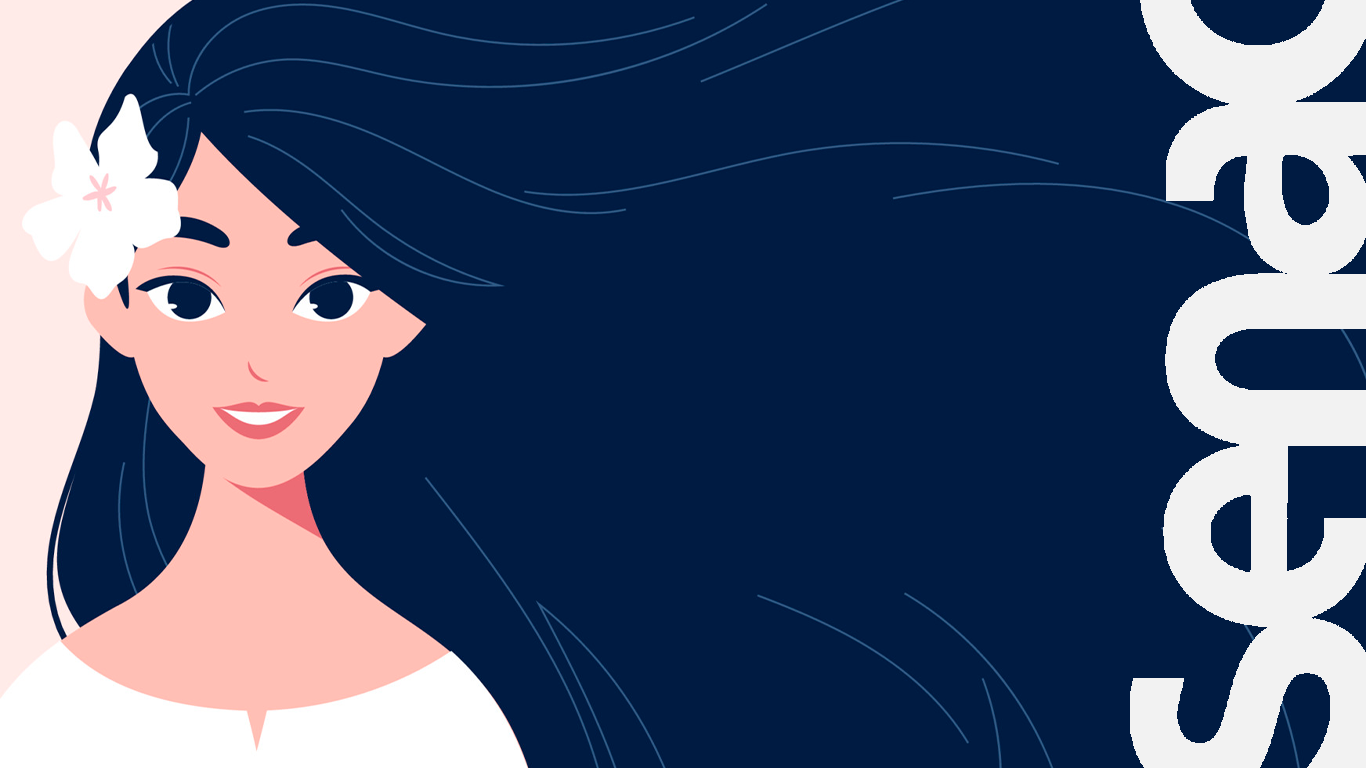
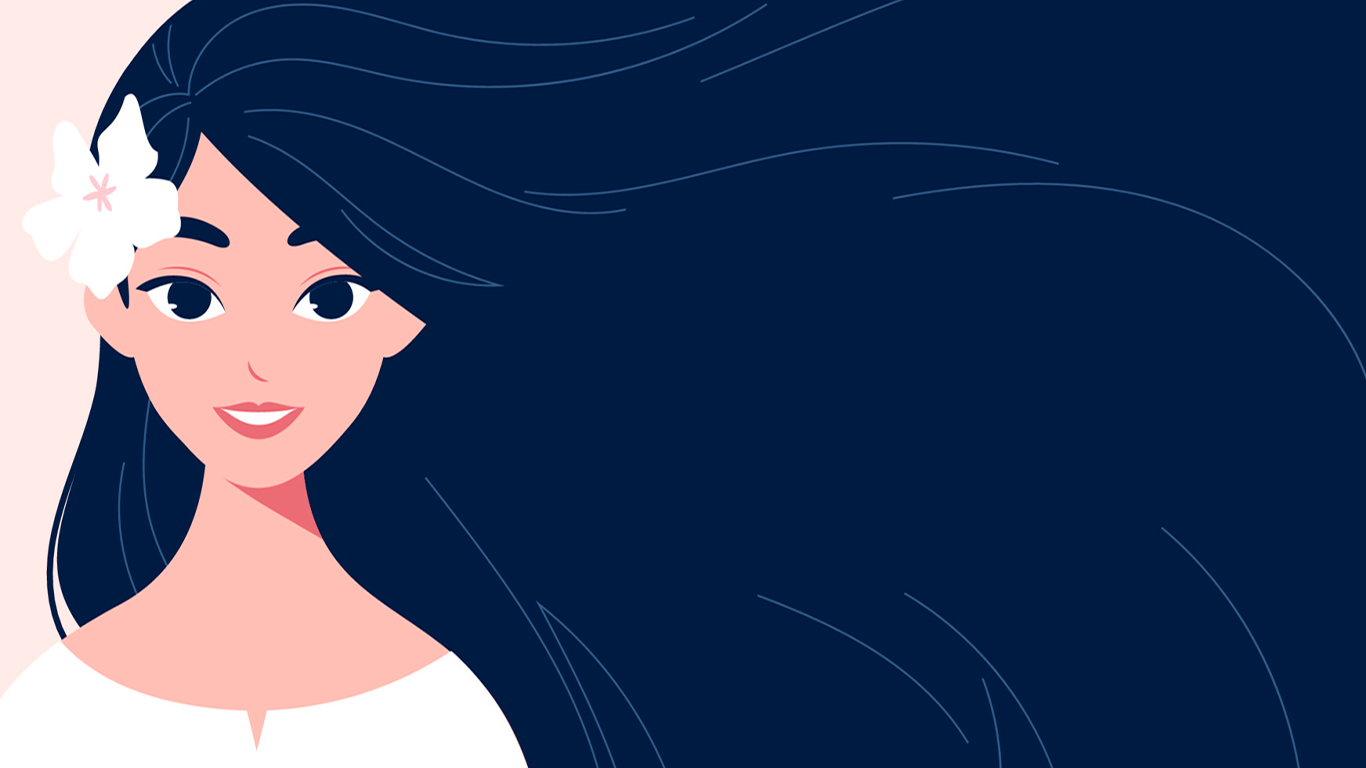
Feat: Header da página

Changed region(s): [[0.8302, 0.0, 1.0, 1.0]]

diff --git a/Aula-02/index.html b/Aula-02/index.html
@@ -4,9 +4,37 @@
     <meta charset="UTF-8">
     <meta http-equiv="X-UA-Compatible" content="IE=edge">
     <meta name="viewport" content="width=device-width, initial-scale=1.0">
-    <title>LandPage | Senac Tatuapé</title>
+    <link rel="stylesheet" href="css/styles.css">
+    <style>
+        @import url('https://fonts.googleapis.com/css2?family=Plus+Jakarta+Sans:wght@200;300&family=Source+Code+Pro:wght@500&family=Ubuntu:wght@500&display=swap');
+      </style>
+    <title>Landpage | Senac Tatuapé</title>
 </head>
 <body>
+<header>
+    <div class="left_panel">
+        <h3>Senac</h3>
+        <h2>Tatuapé Cel.Luís Americano</h2>
+        <div class="icons">
+            <a href="https://www.facebook.com/senactatuape/?locale=pt_BR"><svg xmlns="http://www.w3.org/2000/svg" width="24" height="24" fill="currentColor" class="bi bi-facebook" viewBox="0 0 16 16">
+                <path d="M16 8.049c0-4.446-3.582-8.05-8-8.05C3.58 0-.002 3.603-.002 8.05c0 4.017 2.926 7.347 6.75 7.951v-5.625h-2.03V8.05H6.75V6.275c0-2.017 1.195-3.131 3.022-3.131.876 0 1.791.157 1.791.157v1.98h-1.009c-.993 0-1.303.621-1.303 1.258v1.51h2.218l-.354 2.326H9.25V16c3.824-.604 6.75-3.934 6.75-7.951z"/>
+            </svg></a>
+            <a href="https://www.instagram.com/senac.tatuape/"><svg xmlns="http://www.w3.org/2000/svg" width="24" height="24" fill="currentColor" class="bi bi-instagram" viewBox="0 0 16 16">
+                <path d="M8 0C5.829 0 5.556.01 4.703.048 3.85.088 3.269.222 2.76.42a3.917 3.917 0 0 0-1.417.923A3.927 3.927 0 0 0 .42 2.76C.222 3.268.087 3.85.048 4.7.01 5.555 0 5.827 0 8.001c0 2.172.01 2.444.048 3.297.04.852.174 1.433.372 1.942.205.526.478.972.923 1.417.444.445.89.719 1.416.923.51.198 1.09.333 1.942.372C5.555 15.99 5.827 16 8 16s2.444-.01 3.298-.048c.851-.04 1.434-.174 1.943-.372a3.916 3.916 0 0 0 1.416-.923c.445-.445.718-.891.923-1.417.197-.509.332-1.09.372-1.942C15.99 10.445 16 10.173 16 8s-.01-2.445-.048-3.299c-.04-.851-.175-1.433-.372-1.941a3.926 3.926 0 0 0-.923-1.417A3.911 3.911 0 0 0 13.24.42c-.51-.198-1.092-.333-1.943-.372C10.443.01 10.172 0 7.998 0h.003zm-.717 1.442h.718c2.136 0 2.389.007 3.232.046.78.035 1.204.166 1.486.275.373.145.64.319.92.599.28.28.453.546.598.92.11.281.24.705.275 1.485.039.843.047 1.096.047 3.231s-.008 2.389-.047 3.232c-.035.78-.166 1.203-.275 1.485a2.47 2.47 0 0 1-.599.919c-.28.28-.546.453-.92.598-.28.11-.704.24-1.485.276-.843.038-1.096.047-3.232.047s-2.39-.009-3.233-.047c-.78-.036-1.203-.166-1.485-.276a2.478 2.478 0 0 1-.92-.598 2.48 2.48 0 0 1-.6-.92c-.109-.281-.24-.705-.275-1.485-.038-.843-.046-1.096-.046-3.233 0-2.136.008-2.388.046-3.231.036-.78.166-1.204.276-1.486.145-.373.319-.64.599-.92.28-.28.546-.453.92-.598.282-.11.705-.24 1.485-.276.738-.034 1.024-.044 2.515-.045v.002zm4.988 1.328a.96.96 0 1 0 0 1.92.96.96 0 0 0 0-1.92zm-4.27 1.122a4.109 4.109 0 1 0 0 8.217 4.109 4.109 0 0 0 0-8.217zm0 1.441a2.667 2.667 0 1 1 0 5.334 2.667 2.667 0 0 1 0-5.334z"/>
+              </svg></a>
+              <h4>Rua Coronel Luis Americano, 130 <br>Tatuapé, São Paulo -SP <br>CEP 03308-020</h4>
+        </div>
+    </div>
+    <div class="qrcode">
+        <img src="images/qrcode.png">
+    </div>
+    <div class="right_panel">Senac</div>
+</header>
+<main>
+
+</main>
+<footer>
     
+</footer>
 </body>
 </html>

diff --git a/Aula-02/css/styles.css b/Aula-02/css/styles.css
@@ -1,0 +1,78 @@
+* {
+    margin: 0;
+    padding: 0;
+    box-sizing: border-box;
+    font-family: 'Plus Jakarta Sans', sans-serif;
+    font-family: 'Source Code Pro', monospace;
+    font-family: 'Ubuntu', sans-serif;
+}
+
+header {
+    /*Largura do header*/
+    width: 100%;
+    /*altura do header*/
+    height: 827px;
+    /*Aplicar uma imagem de fundo com o comando background-image*/
+    background-image:url("../images/bg-senac.png");
+    /*Não repetir a imagem de fundo*/
+    background-repeat: no-repeat;
+    /*alterar o tamanho da imagem de fundo*/
+    background-size: cover;
+    /*alterar a posição do plano de fundo.
+    O primeiro elemento é a posição x e segundo a posição y
+    background-position: 0 -200px*/
+
+    /*Vamos dispor(display) o conteúdo de forma fexível*/
+    display: flex;
+}
+
+header .right_panel {
+    font-size: 290pt;
+    color: #ffeae7;
+    transform: rotate(-90deg);
+    letter-spacing: -40px;
+    font-weight: bold;
+    flex: 1;
+    height: 300px;
+    margin-top: 260px;
+    margin-right: -128px;
+}
+header .left_panel {
+    flex: 2;
+    margin-top: 300px;
+    margin-left: 600px;
+    font-weight: bold;
+    font-size: 20pt;
+    color: #ffeae7;
+}
+header .left_panel h2 {
+    padding-top: 5px;
+}
+header .icons svg {
+    margin: 5px;
+    padding-top: 5px;
+}
+header .left_panel h4 {
+    font-size: medium;
+    font-weight: lighter;
+    padding-top: 5px;
+}
+
+header .qrcode {
+    position: absolute;
+    margin-top: 300px;
+    margin-left: 885px;
+}
+header .qrcode img {
+    object-fit: scale-down;
+    width: 260px;
+    height: 260px;
+    
+}
+
+
+
+a {
+    text-decoration: none;
+    color: #ffeae7;
+}
